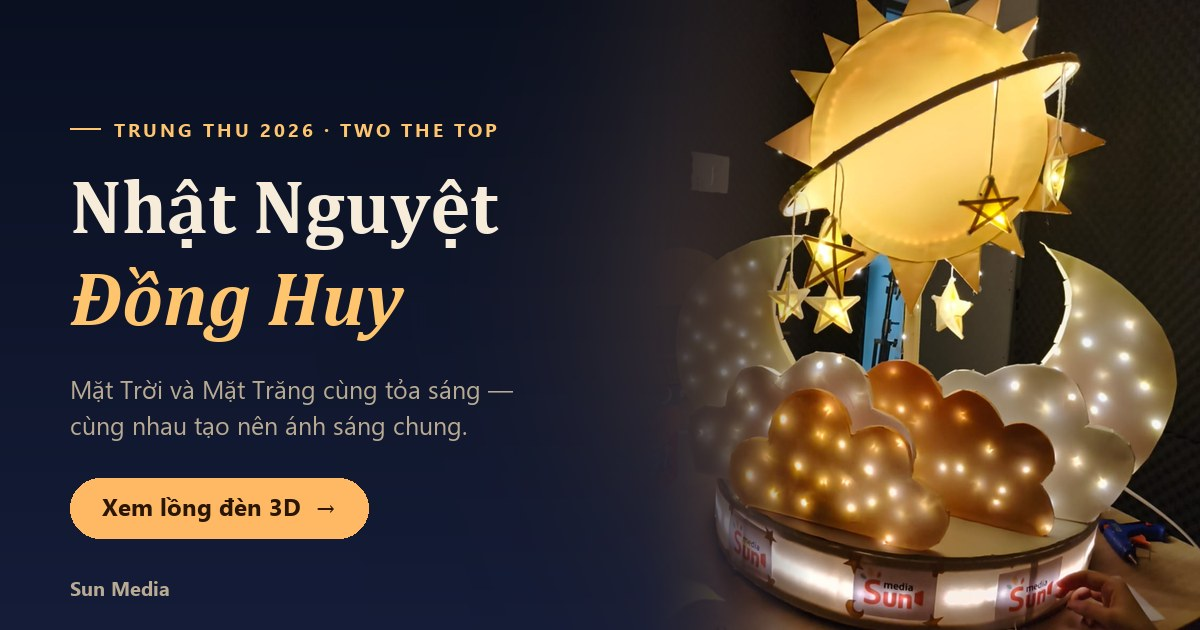
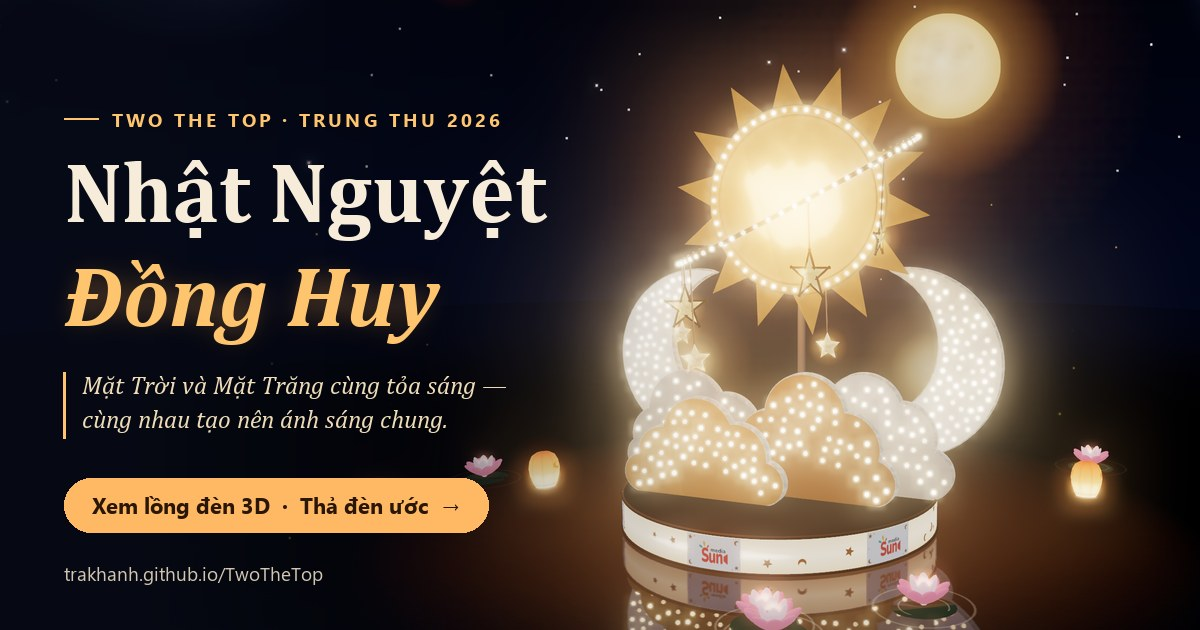
Ảnh chia sẻ link mới, màn hình lớn đẹp hơn (cả điện thoại), thanh cuộn vàng mảnh
- og-image: chụp từ chính cảnh 3D lồng đèn sáng, kèm tên và ý nghĩa; đổi đường dẫn để Zalo/Facebook lấy ảnh mới
- Màn hình lớn: ô số liệu dạng thẻ, thẻ QR viền vàng có 3 bước hướng dẫn; bố cục riêng cho điện thoại
- Thanh cuộn mảnh màu vàng cho toàn trang; danh sách lời chúc mờ dần ở cuối
- Bỏ phản chiếu hoa đăng (gây vệt dài ở mép màn hình)

diff --git a/index.html b/index.html
@@ -15,14 +15,14 @@
 <meta property="og:url" content="https://trakhanh.github.io/TwoTheTop/">
 <meta property="og:title" content="Nhật Nguyệt Đồng Huy · Lồng đèn 3D của Two The Top">
 <meta property="og:description" content="Mặt Trời và Mặt Trăng cùng tỏa sáng — lồng đèn làm từ que tre, bìa giấy và 19 đôi tay. Xoay, phóng to, bật tắt đèn và thả đèn ước trên mô hình 3D.">
-<meta property="og:image" content="https://trakhanh.github.io/TwoTheTop/assets/og-image.jpg">
+<meta property="og:image" content="https://trakhanh.github.io/TwoTheTop/assets/og-image.jpg?v=3">
 <meta property="og:image:width" content="1200">
 <meta property="og:image:height" content="630">
 <meta property="og:image:alt" content="Lồng đèn Nhật Nguyệt Đồng Huy của nhóm Two The Top đang phát sáng">
 <meta name="twitter:card" content="summary_large_image">
 <meta name="twitter:title" content="Nhật Nguyệt Đồng Huy · Lồng đèn 3D của Two The Top">
 <meta name="twitter:description" content="Mặt Trời và Mặt Trăng cùng tỏa sáng — lồng đèn Trung Thu của Two The Top, xem mô hình 3D tương tác.">
-<meta name="twitter:image" content="https://trakhanh.github.io/TwoTheTop/assets/og-image.jpg">
+<meta name="twitter:image" content="https://trakhanh.github.io/TwoTheTop/assets/og-image.jpg?v=3">
 <link rel="preconnect" href="https://fonts.googleapis.com">
 <link rel="preconnect" href="https://fonts.gstatic.com" crossorigin>
 <link href="https://fonts.googleapis.com/css2?family=Be+Vietnam+Pro:wght@300;400;500;600;700&family=Playfair+Display:wght@500;600;700&family=Baloo+2:wght@600;700;800&display=swap&subset=vietnamese" rel="stylesheet">
@@ -40,6 +40,17 @@
     --colw: clamp(330px, 31vw, 460px);
   }
   * { box-sizing: border-box; }
+  /* Slim gold scrollbars everywhere (instead of the grey default with arrows) */
+  * { scrollbar-width: thin; scrollbar-color: rgba(255, 197, 110, .45) transparent; }
+  ::-webkit-scrollbar { width: 8px; height: 8px; }
+  ::-webkit-scrollbar-track { background: transparent; }
+  ::-webkit-scrollbar-button { display: none; width: 0; height: 0; }
+  ::-webkit-scrollbar-thumb {
+    border: 2px solid transparent; border-radius: 999px; background-clip: padding-box;
+    background-color: rgba(255, 197, 110, .38);
+  }
+  ::-webkit-scrollbar-thumb:hover { background-color: rgba(255, 197, 110, .7); }
+  ::-webkit-scrollbar-corner { background: transparent; }
   [hidden] { display: none !important; } /* classes like .team-peek set display and would otherwise override it */
   html, body { margin: 0; height: 100%; }
   body {
@@ -600,7 +611,8 @@
   }
   .wish-tabs button[aria-selected="true"] { background: var(--gold); color: #2a1605; font-weight: 600; }
   .wish-tabs .count { opacity: .75; font-weight: 500; }
-  .wall { list-style: none; margin: 0; padding: 0 4px 0 0; display: grid; gap: 8px; max-height: min(56svh, 460px); overflow-y: auto; scrollbar-width: thin; overscroll-behavior: contain; }
+  .wall { list-style: none; margin: 0; padding: 2px 6px 14px 0;
+    -webkit-mask-image: linear-gradient(180deg, #000 calc(100% - 26px), transparent); mask-image: linear-gradient(180deg, #000 calc(100% - 26px), transparent); display: grid; gap: 8px; max-height: min(56svh, 460px); overflow-y: auto; scrollbar-width: thin; overscroll-behavior: contain; }
   .wall li {
     display: grid; grid-template-columns: 1fr auto; align-items: center; gap: 4px 10px;
     padding: 11px 12px 10px 14px; border-radius: 14px; background: rgba(255, 255, 255, .045); border: 1px solid transparent;
@@ -681,31 +693,64 @@
   body.tv .stage::before { opacity: 0; }
   body.tv { cursor: none; }
   body.tv.pointer { cursor: auto; }
-  .tv-title { position: fixed; z-index: 4; left: 4vw; top: 13vh; width: 26vw; }
+  .tv-title { position: fixed; z-index: 4; left: 4vw; top: 12vh; width: min(34vw, 620px); }
   .tv-title .eyebrow { font-size: clamp(12px, 1vw, 18px); }
-  .tv-title h2 { margin: 0 0 22px; font-family: "Playfair Display", serif; font-weight: 600; font-size: clamp(34px, 3.4vw, 66px); line-height: 1.2; letter-spacing: .02em; }
-  .tv-title h2 em { display: block; color: var(--gold); }
-  .tv-meaning { margin: -8px 0 22px; font-family: "Playfair Display", serif; font-style: italic; font-size: clamp(15px, 1.2vw, 22px); line-height: 1.5; color: #e9d7b6; }
-  .tv-stats { display: grid; gap: 8px; margin: 0; font-size: clamp(16px, 1.35vw, 26px); color: var(--muted); }
-  .tv-stats b { color: var(--text); font-weight: 600; }
-  .tv-qr {
-    position: fixed; z-index: 4; left: 4vw; bottom: 6vh; width: max-content;
-    display: flex; align-items: center; gap: 18px; padding: 14px 22px 14px 14px; border-radius: 20px;
-    background: rgba(12, 18, 36, .82); border: 1px solid rgba(255, 200, 120, .35);
-    backdrop-filter: blur(8px); -webkit-backdrop-filter: blur(8px);
+  .tv-title h2 { margin: 0 0 18px; font-family: "Playfair Display", serif; font-weight: 600; font-size: clamp(36px, 3.8vw, 76px); line-height: 1.12; letter-spacing: .02em; text-shadow: 0 4px 30px rgba(0, 0, 0, .5); }
+  .tv-title h2 em { display: block; color: var(--gold); text-shadow: 0 0 34px rgba(255, 180, 90, .45); }
+  .tv-meaning {
+    margin: 0 0 26px; padding-left: 16px; border-left: 2px solid rgba(255, 197, 110, .6);
+    font-family: "Playfair Display", serif; font-style: italic; font-size: clamp(15px, 1.2vw, 23px); line-height: 1.5; color: #eedcb9;
   }
-  .tv-qr img { width: clamp(110px, 9.5vw, 190px); height: auto; padding: 8px; border-radius: 12px; background: #fff; }
-  .tv-qr b { display: block; margin-bottom: 6px; font-size: clamp(17px, 1.4vw, 28px); line-height: 1.3; white-space: nowrap; }
-  .tv-qr span { font-size: clamp(13px, 1vw, 20px); color: var(--gold); }
+  /* Live numbers as three glass tiles */
+  .tv-stats { display: flex; gap: 12px; margin: 0; }
+  .tv-stats span {
+    flex: 1; min-width: 0; padding: 12px 14px 11px; border-radius: 16px;
+    background: linear-gradient(160deg, rgba(255, 200, 120, .12), rgba(255, 255, 255, .03)); border: 1px solid rgba(255, 197, 110, .25);
+  }
+  .tv-stats b { display: block; font-family: "Playfair Display", serif; font-size: clamp(26px, 2.4vw, 46px); line-height: 1; color: var(--gold); font-weight: 600; }
+  .tv-stats small { display: block; margin-top: 6px; font-size: clamp(11px, .85vw, 16px); color: var(--muted); letter-spacing: .02em; }
+  /* Scan card */
+  .tv-qr {
+    position: fixed; z-index: 4; left: 4vw; bottom: 6vh; width: min(34vw, 620px);
+    display: flex; align-items: center; gap: clamp(14px, 1.4vw, 26px); padding: clamp(12px, 1.1vw, 20px); border-radius: 24px;
+    background: linear-gradient(135deg, rgba(40, 34, 40, .88), rgba(14, 18, 36, .88));
+    border: 1px solid rgba(255, 197, 110, .45);
+    box-shadow: 0 20px 60px rgba(0, 0, 0, .45), 0 0 50px rgba(255, 170, 80, .16), inset 0 1px 0 rgba(255, 255, 255, .06);
+    backdrop-filter: blur(10px); -webkit-backdrop-filter: blur(10px);
+  }
+  .tv-qr-code { flex: none; padding: 8px; border-radius: 16px; background: #fff; box-shadow: 0 0 0 3px rgba(255, 197, 110, .7), 0 0 30px rgba(255, 190, 100, .5); animation: tv-qr-glow 2.6s ease-in-out infinite alternate; }
+  .tv-qr-code img { display: block; width: clamp(110px, 9.5vw, 200px); height: auto; }
+  @keyframes tv-qr-glow { to { box-shadow: 0 0 0 3px rgba(255, 210, 130, 1), 0 0 44px rgba(255, 190, 100, .8); } }
+  .tv-qr-text { min-width: 0; }
+  .tv-qr-kicker { display: block; margin-bottom: 4px; font-size: clamp(10px, .75vw, 14px); letter-spacing: .24em; text-transform: uppercase; color: var(--gold); }
+  .tv-qr b { display: block; margin-bottom: 8px; font-size: clamp(17px, 1.45vw, 30px); line-height: 1.25; }
+  .tv-qr ol { margin: 0 0 8px; padding: 0; list-style: none; counter-reset: s; display: grid; gap: 3px; }
+  .tv-qr li { counter-increment: s; display: flex; align-items: center; gap: 8px; font-size: clamp(12px, .9vw, 18px); color: #e8dcc6; }
+  .tv-qr li::before { content: counter(s); flex: none; width: 1.5em; height: 1.5em; border-radius: 50%; display: grid; place-items: center; font-size: .8em; font-weight: 700; color: #2a1605; background: var(--gold); }
+  .tv-qr-url { font-size: clamp(12px, .9vw, 18px); color: var(--gold); opacity: .85; }
   .tv-exit { position: fixed; z-index: 5; top: 20px; right: 20px; opacity: 0; transition: opacity .3s; }
   body.tv.pointer .tv-exit { opacity: 1; }
   body.tv .wish-label { font-size: clamp(15px, 1.25vw, 24px); padding: 12px 18px 11px; }
   body.tv .wish-label .from, body.tv .wish-label .tag { font-size: .78em; }
+  /* Big-screen mode on a phone: title and numbers on top, the lantern in the middle, a slim scan card below */
   @media (max-width: 900px) {
-    .tv-title { width: auto; right: 4vw; top: 70px; }
-    .tv-title h2 { font-size: 26px; margin-bottom: 8px; }
+    .tv-title { width: auto; left: 16px; right: 16px; top: 84px; text-align: center; }
+    .tv-title .eyebrow { justify-content: center; font-size: 11px; margin-bottom: 6px; }
+    .tv-title .eyebrow::before { display: none; }
+    .tv-title h2 { font-size: 30px; margin-bottom: 10px; }
+    .tv-title h2 em { display: inline; }
     .tv-meaning { display: none; }
-    .tv-qr { max-width: none; right: 4vw; }
+    .tv-stats { gap: 8px; }
+    .tv-stats span { padding: 8px 6px 7px; text-align: center; border-radius: 12px; }
+    .tv-stats b { font-size: 20px; }
+    .tv-stats small { font-size: 10.5px; margin-top: 3px; }
+    .tv-qr { width: auto; left: 12px; right: 12px; bottom: max(12px, env(safe-area-inset-bottom)); padding: 10px; gap: 12px; border-radius: 18px; }
+    .tv-qr-code { padding: 5px; border-radius: 10px; }
+    .tv-qr-code img { width: 76px; }
+    .tv-qr b { font-size: 14.5px; margin-bottom: 4px; }
+    .tv-qr ol { display: none; }
+    .tv-qr-kicker { font-size: 9.5px; }
+    .tv-qr-url { font-size: 12px; }
   }
 
   .gl-lost {
@@ -1016,7 +1061,7 @@
     .team-modal.open .member { animation: none; opacity: 1; transform: none; }
     .member:hover .ava svg { animation: none; }
     .heart-fly, .photo-flash { display: none; }
-    .ld-bar::after, .ld-rays, .ld-sun, .ld-moon, .ld-halo, .ld-moon-halo, .ld-hang, .ld-lights, .ld-spark, .ld-kiss, .ld-flare, .ld-moon-in, .live-stats .dot, .ld-title .l1, .ld-title .l2, .ld-orn i, .ld-orn b { animation: none; }
+    .tv-qr-code, .ld-bar::after, .ld-rays, .ld-sun, .ld-moon, .ld-halo, .ld-moon-halo, .ld-hang, .ld-lights, .ld-spark, .ld-kiss, .ld-flare, .ld-moon-in, .live-stats .dot, .ld-title .l1, .ld-title .l2, .ld-orn i, .ld-orn b { animation: none; }
     .wall li.fresh, .heart-peek.pop .hico svg { animation: none; }
     .team-sheet, .mem-sheet, .loader, .ld-inner { transition: none; }
   }
@@ -1382,8 +1427,13 @@
     <p class="tv-stats"><span id="tvVisits"></span><span id="tvWishes"></span><span id="tvHearts"></span></p>
   </div>
   <div class="tv-qr">
-    <img src="assets/qr.svg" alt="Mã QR mở trang lồng đèn">
-    <div><b>Quét mã để thả đèn ước 🏮</b><span>trakhanh.github.io/TwoTheTop</span></div>
+    <div class="tv-qr-code"><img src="assets/qr.svg" alt="Mã QR mở trang lồng đèn"></div>
+    <div class="tv-qr-text">
+      <span class="tv-qr-kicker">Cùng thắp sáng</span>
+      <b>Quét mã, thả một chiếc đèn ước 🏮</b>
+      <ol><li>Mở camera điện thoại</li><li>Viết lời chúc</li><li>Ngắm đèn bay lên màn hình này</li></ol>
+      <span class="tv-qr-url">trakhanh.github.io/TwoTheTop</span>
+    </div>
   </div>
   <button class="round tv-exit" id="tvExit" aria-label="Thoát màn hình lớn">
     <svg viewBox="0 0 24 24" fill="none" stroke="currentColor" stroke-width="2.2" stroke-linecap="round"><path d="M6 6l12 12M18 6L6 18"/></svg>
@@ -2419,7 +2469,7 @@ const lotus = (() => {
     ring(6, 0.14, 0.45, 0.12, 0.3, inner, 0.08);
     const candle = new THREE.Mesh(new THREE.CylinderGeometry(0.06, 0.06, 0.2, 10), candleMat); candle.position.y = 0.22; grp.add(candle);
     const glow = new THREE.Sprite(glowMat); glow.position.y = 0.42; glow.scale.setScalar(1.3); grp.add(glow);
-    grp.traverse(o => { if (o.isMesh) o.layers.enable(2); }); // reflected in the water with the lantern
+    // Not reflected: near the edge of the view the mirror smears them into long streaks.
     const ripples = [0, 1].map(() => {
       const m = new THREE.Mesh(ringGeo, new THREE.MeshBasicMaterial({ map: ringTex, transparent: true, opacity: 0, blending: THREE.AdditiveBlending, depthWrite: false }));
       m.layers.set(1); m.position.y = 0.03; scene.add(m); return m;
@@ -3916,9 +3966,14 @@ const tvTitle = document.getElementById('tvTitle'), tvHud = document.getElementB
 function isTv() { return document.body.classList.contains('tv'); }
 // Numbers only go into innerHTML here (never wish text).
 function updateTvStats() {
-  document.getElementById('tvVisits').innerHTML = visitTotal !== null ? `👀 <b>${fmtNum(visitTotal)}</b> người đã ghé thăm` : '';
-  document.getElementById('tvWishes').innerHTML = db ? `🏮 <b>${fmtNum(wishTotal)}</b> chiếc đèn ước đã bay lên` : '';
-  document.getElementById('tvHearts').innerHTML = heartsReady ? `❤ <b>${fmtNum(heartTotal)}</b> lượt thả tim` : '';
+  const stat = (id, show, n, label) => {
+    const el = document.getElementById(id);
+    el.hidden = !show;
+    if (show) el.innerHTML = `<b>${fmtNum(n)}</b><small>${label}</small>`;
+  };
+  stat('tvVisits', visitTotal !== null, visitTotal, 'người ghé thăm');
+  stat('tvWishes', !!db, wishTotal, 'đèn ước đã bay');
+  stat('tvHearts', heartsReady, heartTotal, 'lượt thả tim');
   const parts = [];
   if (visitTotal !== null) parts.push(`<b>${fmtNum(visitTotal)}</b> người đã ghé thăm`);
   if (db) parts.push(`<b>${fmtNum(wishTotal)}</b> đèn ước đã bay`);
